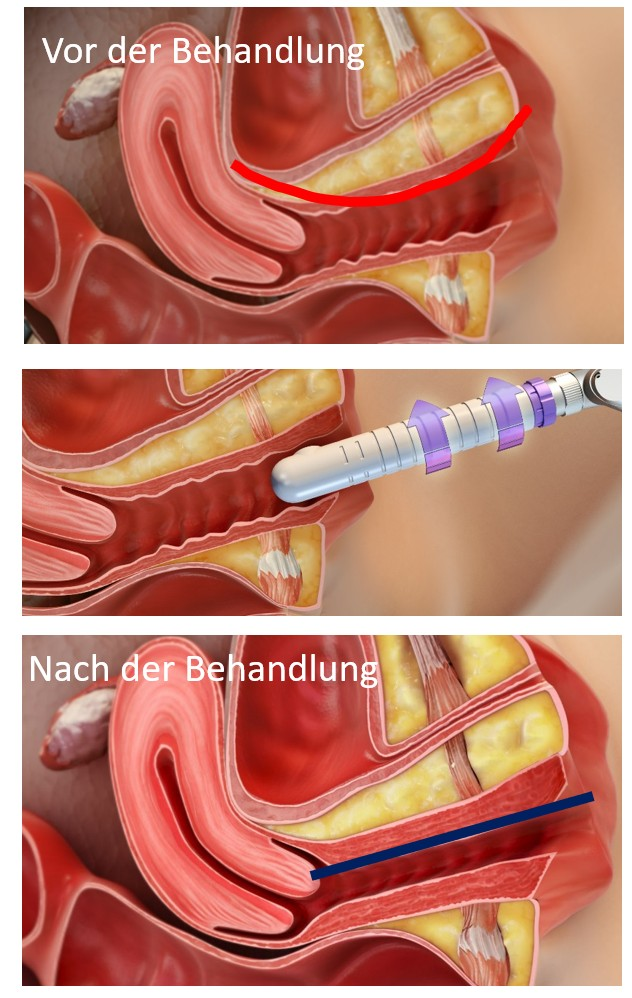
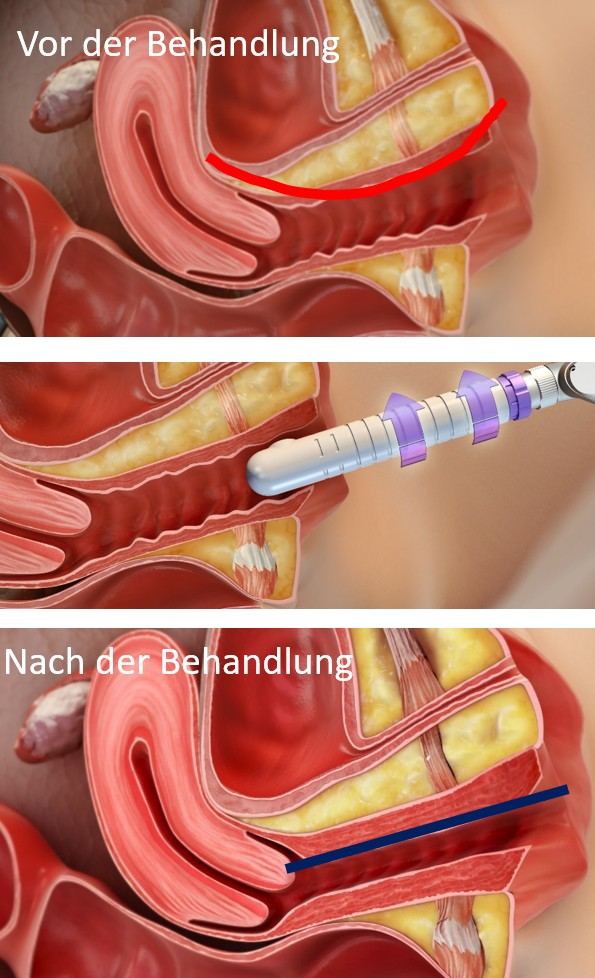
index test

diff --git a/docs/index.md b/docs/index.md
@@ -88,9 +88,11 @@ Vor der Behandlung wird eine betäubende Creme aufgetragen. Die Behandlung selbs
 erfolgt auf dem gynäkologischen Stuhl. Der Arzt/die Ärztin führt eine Sonde in die Scheide
 ein und bestrahlt die Schleimhaut mit dem Laser.
 
+querschnitt-weibliches-Becken.jpg
+
 
 <figure>
-  <img src="{{site.baseurl}}images/querschnitt-weibliches-Becken.jpg" alt="Die Lasersonde intravaginal dargestellt." style="width:50%" class="center">
+  <img src="{{site.baseurl}}images/lasersonde.png" alt="Die Lasersonde intravaginal dargestellt." style="width:50%" class="center">
   <figcaption>Die Lasersonde intravaginal dargestellt.</figcaption>
 </figure>
 
